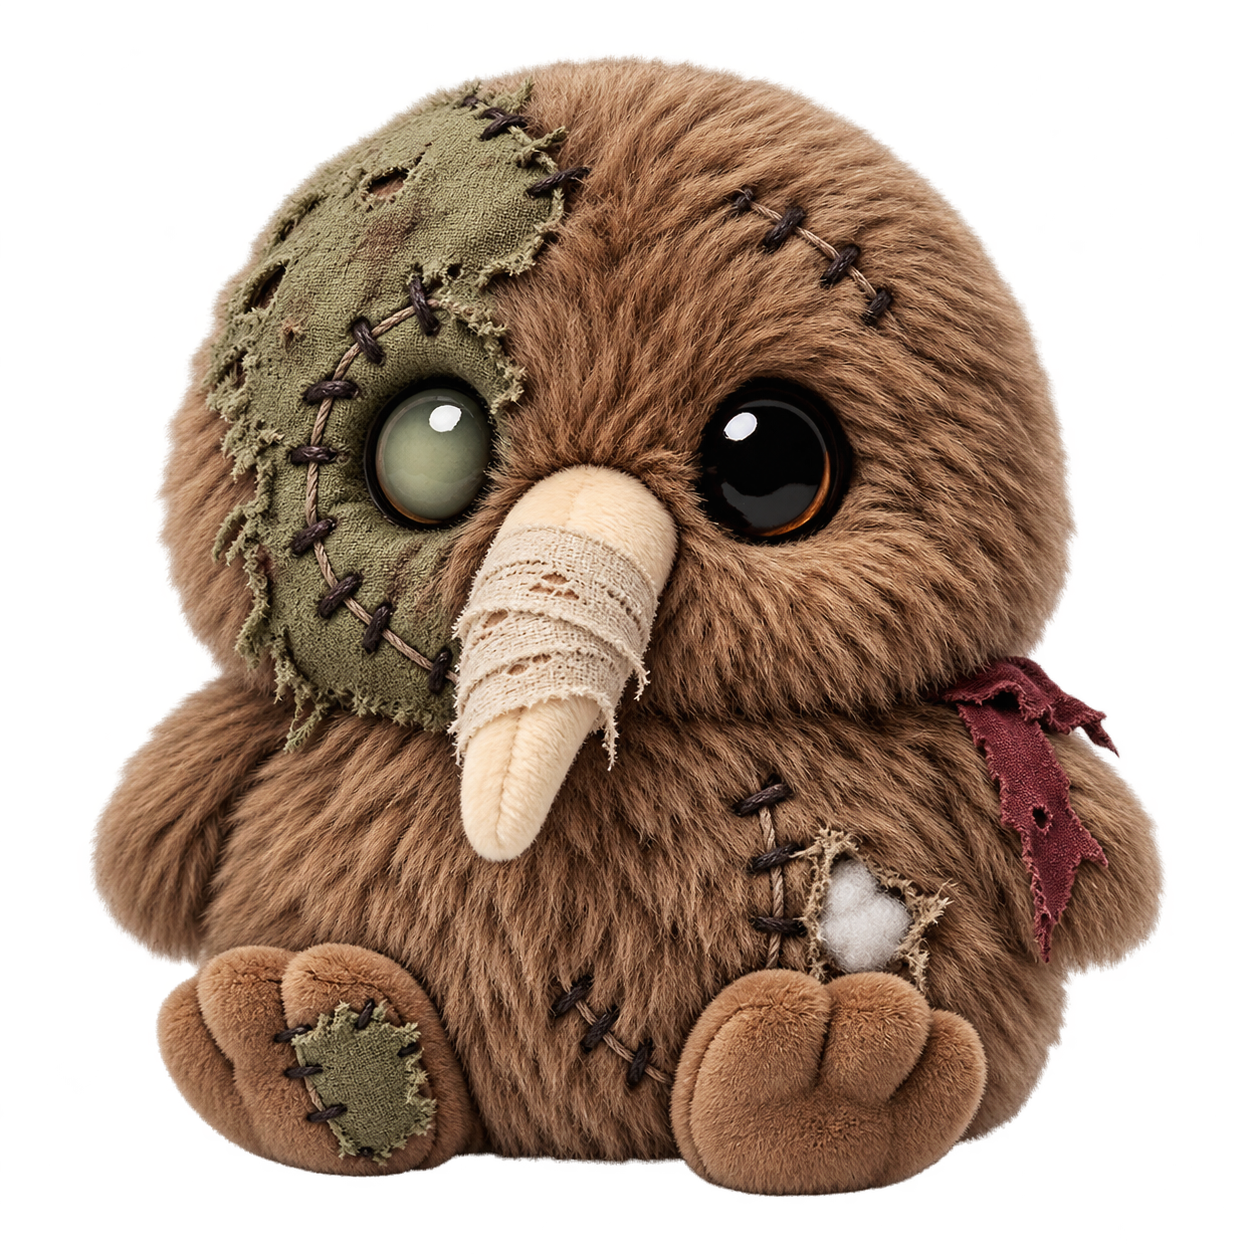
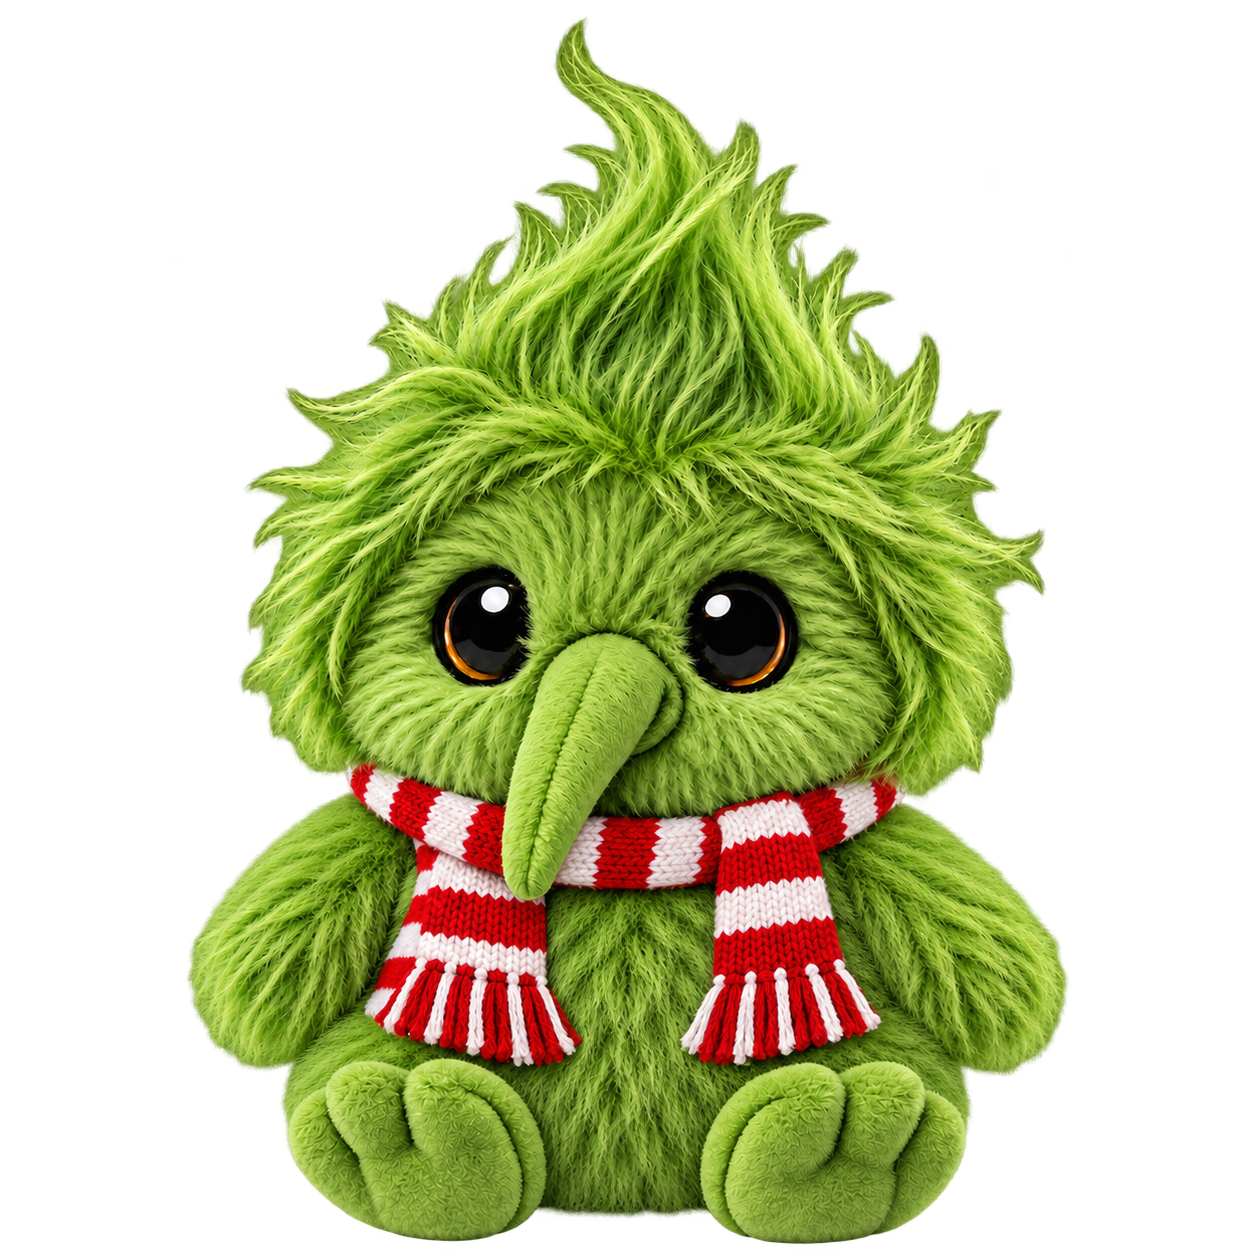
Replace Halloween kiwi with green scarf Grinch and matching collider

diff --git a/app/_lib/panda-drop-physics.ts b/app/_lib/panda-drop-physics.ts
@@ -71,19 +71,18 @@ export const giantPandaCollisionPolygon = [
   { x: 0.3608, y: -0.2339 },
 ] as const;
 
-// Generated by the same SummitStampContour.collisionPolygon(maximumVertexCount: 10)
-// path as the panda, from assets/menimals/kiwi.png.
+// Generated by the game's SummitStampContour.collisionPolygon(maximumVertexCount: 10)
+// and MatchGameStampCollisionMesh.outerHullVertices from Halloween kiwi Grinch artwork.
 export const kiwiCollisionPolygon = [
-  { x: 0.3276, y: 0.2183 },
-  { x: 0.1479, y: 0.4136 },
-  { x: -0.1274, y: 0.4302 },
-  { x: -0.1528, y: 0.4214 },
-  { x: -0.3491, y: 0.2095 },
-  { x: -0.4341, y: -0.2183 },
-  { x: -0.3452, y: -0.396 },
-  { x: 0.1187, y: -0.4458 },
-  { x: 0.3071, y: -0.4019 },
-  { x: 0.4272, y: -0.2622 },
+  { x: -0.3242, y: -0.2165 },
+  { x: -0.2061, y: -0.4773 },
+  { x: 0.1312, y: -0.4916 },
+  { x: 0.2157, y: -0.4797 },
+  { x: 0.3082, y: -0.2053 },
+  { x: 0.2986, y: 0.1734 },
+  { x: 0.1352, y: 0.3696 },
+  { x: -0.0331, y: 0.4860 },
+  { x: -0.2723, y: 0.1902 },
 ] as const;
 
 // Generated by SummitStampContour.collisionPolygon(maximumVertexCount: 10)
